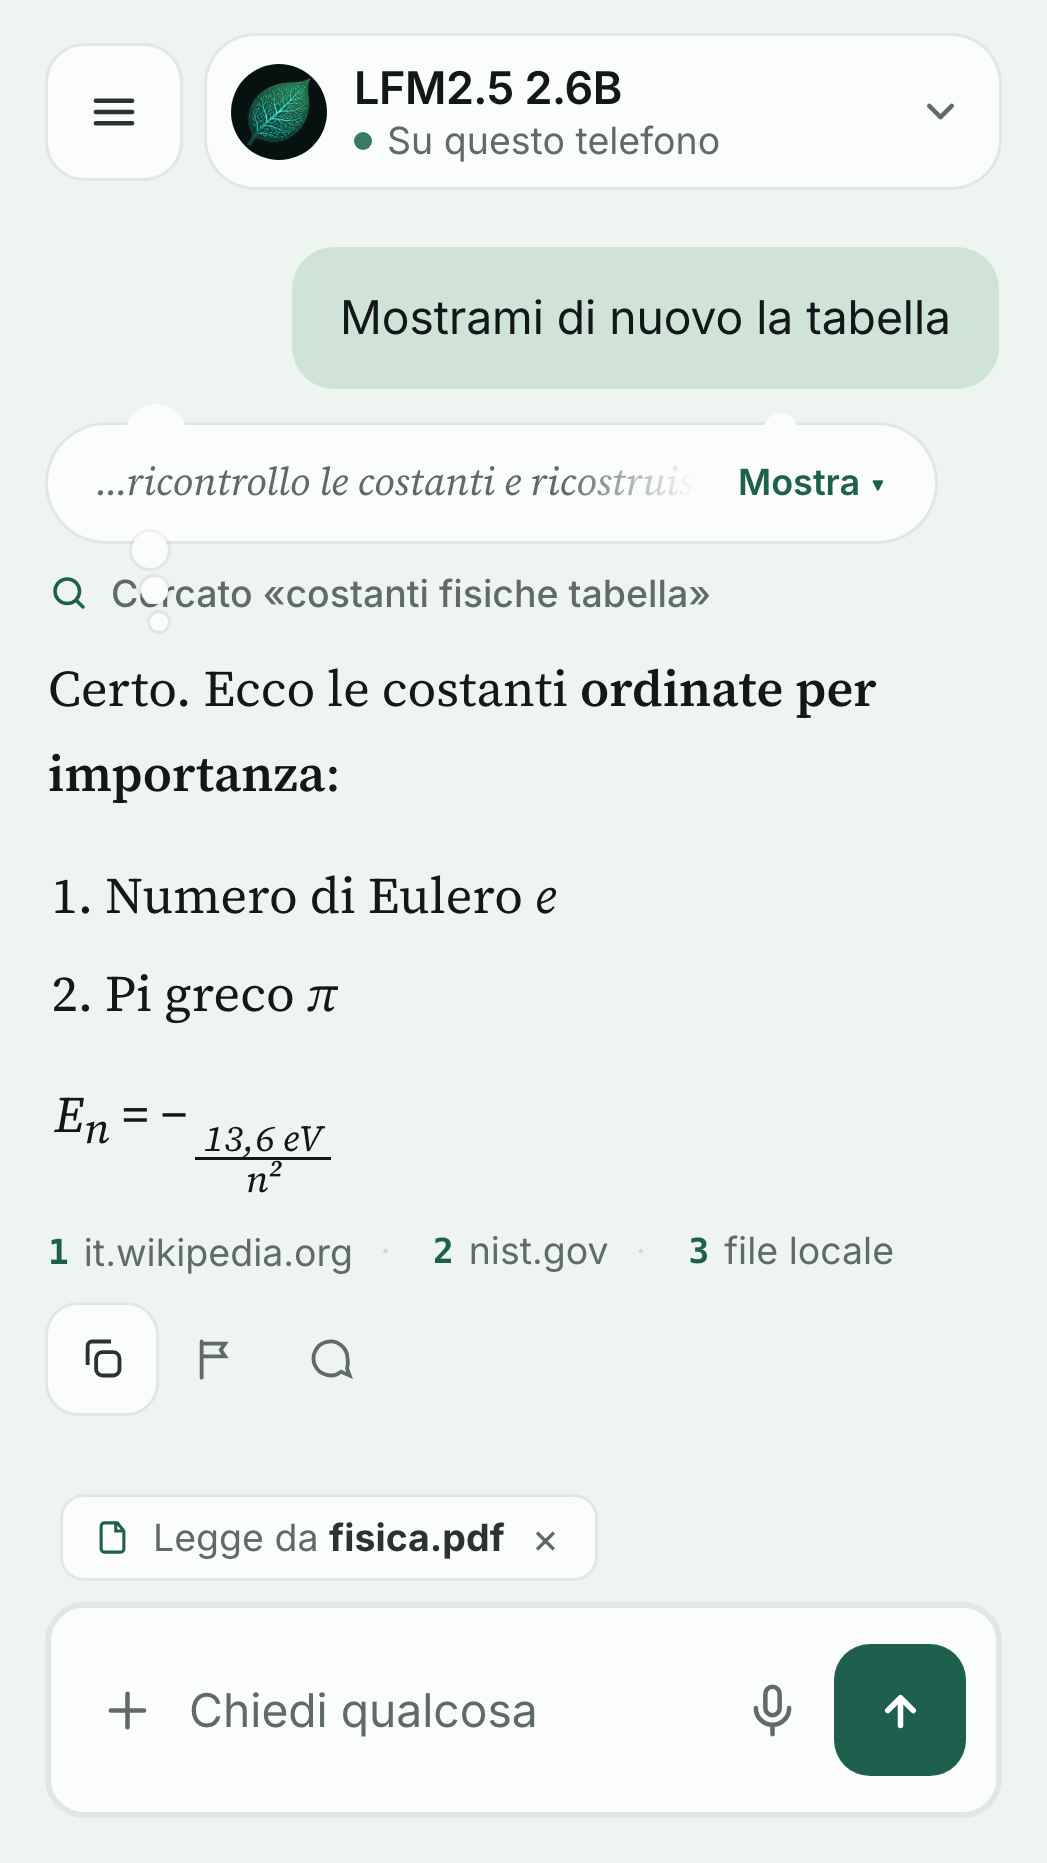
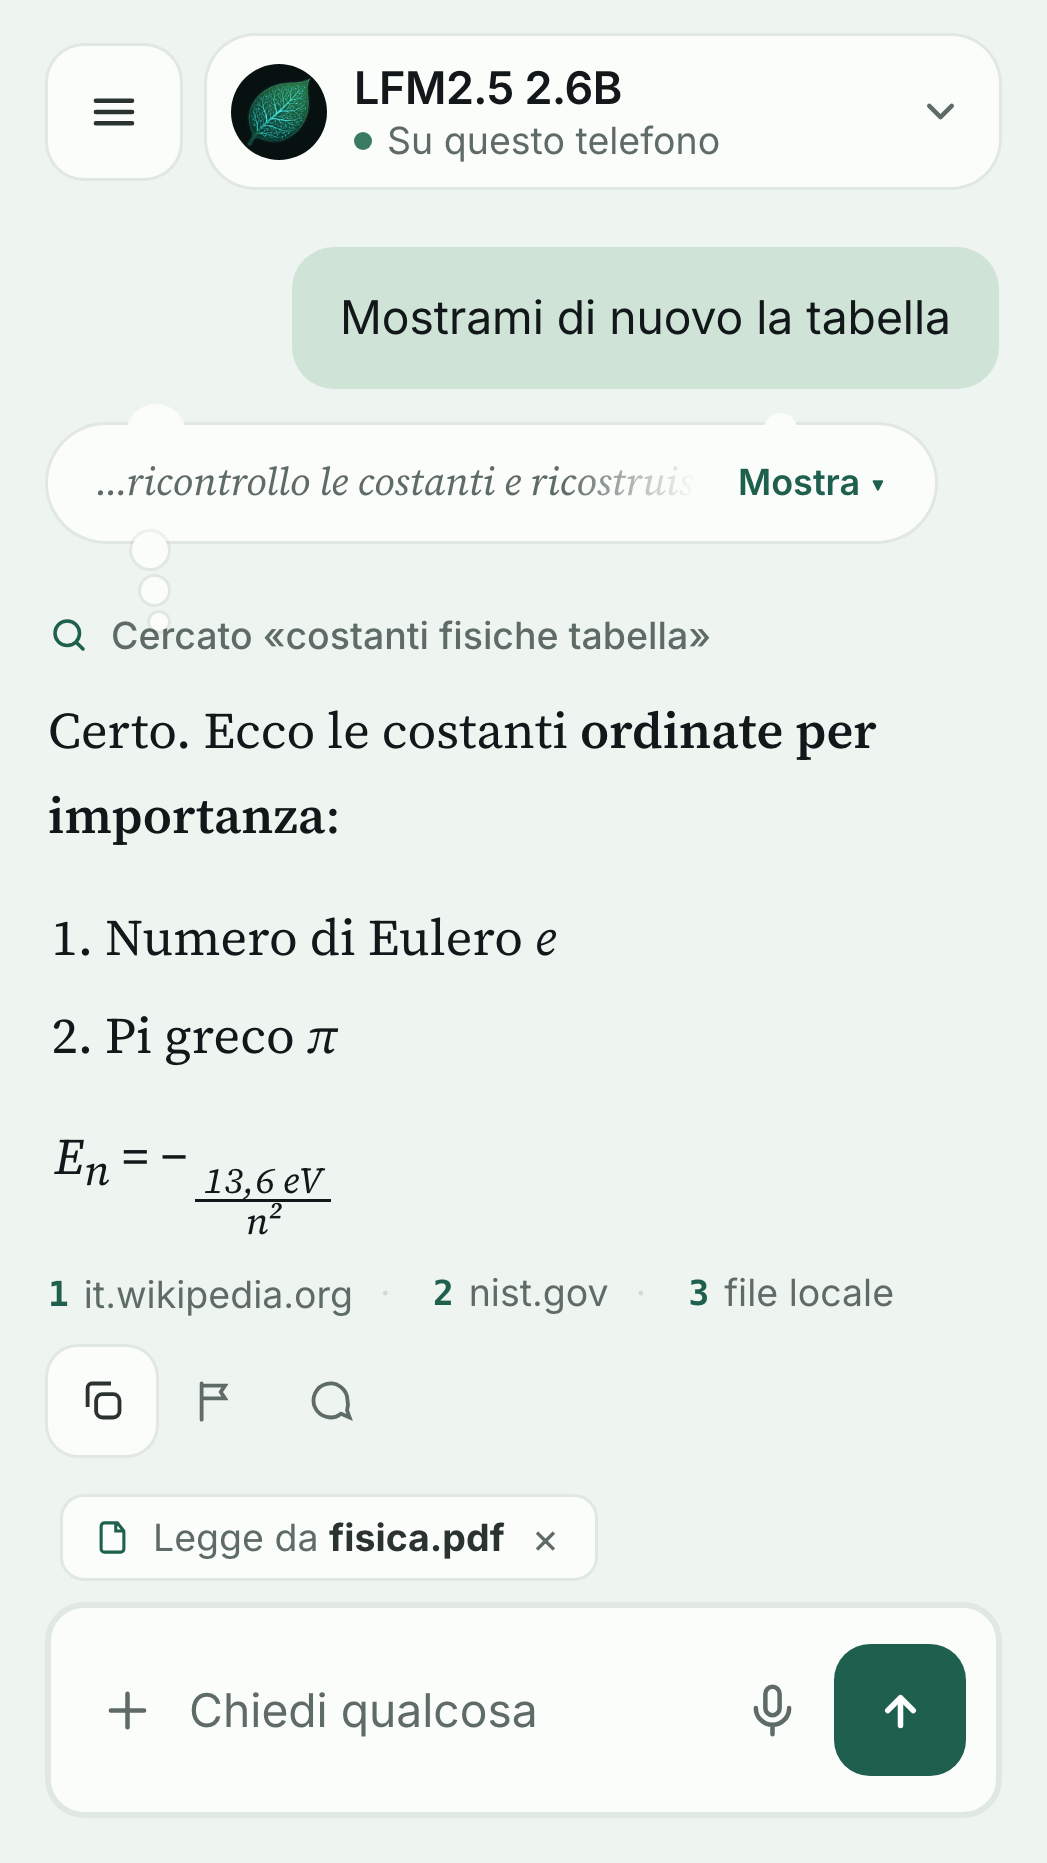
design: room under the cloud's trail
The first trail circle landed on the row below it. 14 dp of space under the
cloud, and the pair re-rendered. Found by looking at the pixels, not by a check.

repo kalsa-ux, branch ux-2026-09-21, parent 64d5ae9

diff --git a/docs/design/kalsa-mock-v2.html b/docs/design/kalsa-mock-v2.html
@@ -742,7 +742,7 @@ body{background:var(--page);font-size:15px}
 .me{background:#cfe3d6;border-radius:var(--r-bub);padding:12px 16px;font-size:15.5px;line-height:1.5;box-shadow:none}
 .ai .txt{font-size:17px;line-height:1.68}
 /* the thinking cloud stays, and lives only here: the owner's one metaphor */
-.cloud{margin-top:4px}
+.cloud{margin-top:4px;margin-bottom:14px}   /* the trail needs room: it hung over the row below */
 .cloud .bub{border-radius:22px;box-shadow:var(--e1);padding:10px 16px 11px}
 .face{font-size:13px}
 .tg{font-size:12px;font-weight:600;color:var(--accent)}
